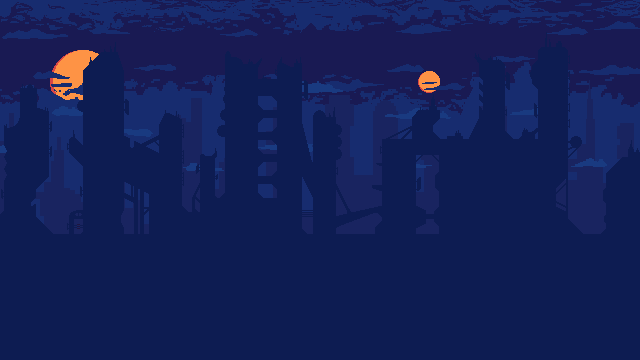
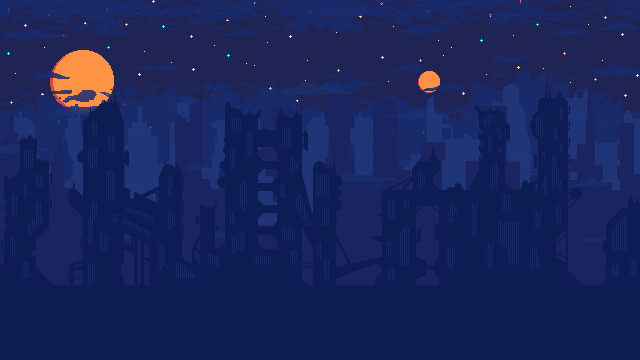
better background

diff --git a/main.c b/main.c
@@ -304,7 +304,7 @@ int main(){
         // ----------------------------------------------------------------------------------------
         BeginDrawing();
         
-        ClearBackground(WHITE);
+        ClearBackground((Color){32, 36, 85, 255});
         DrawTextureEx(background_0, (Vector2){0, 0}, 0, screenRatio, WHITE);
         
 
